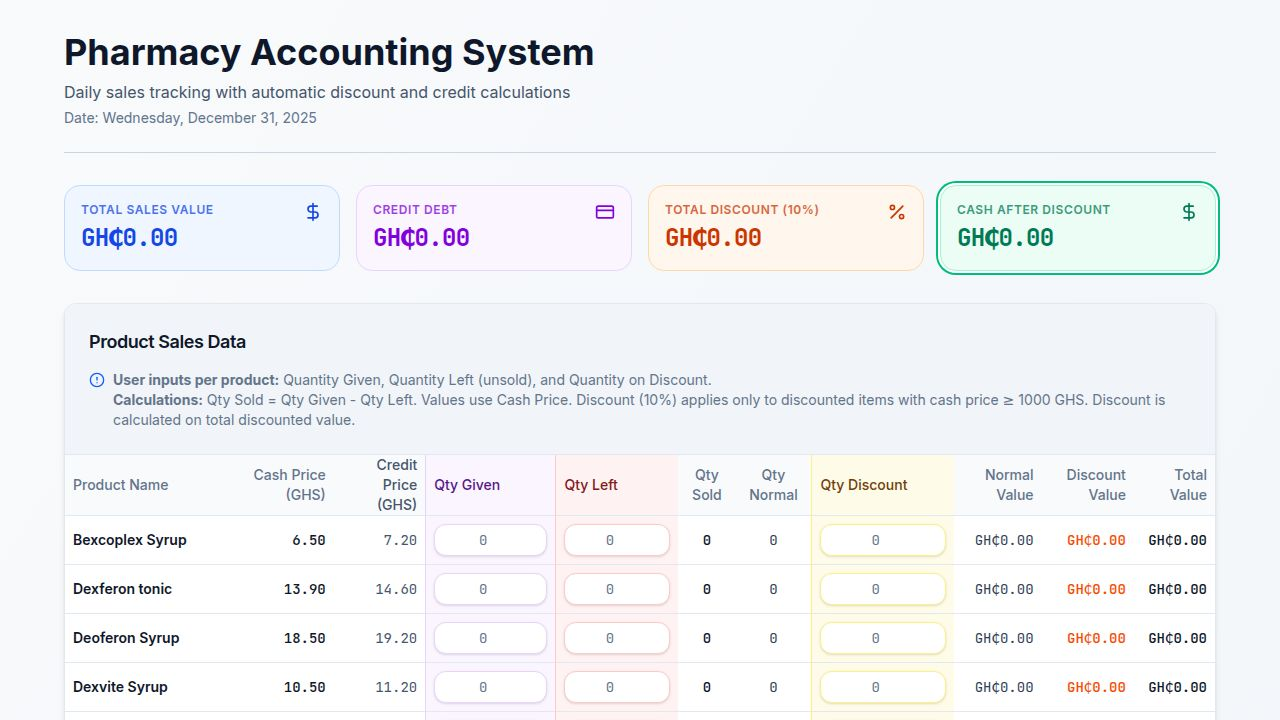
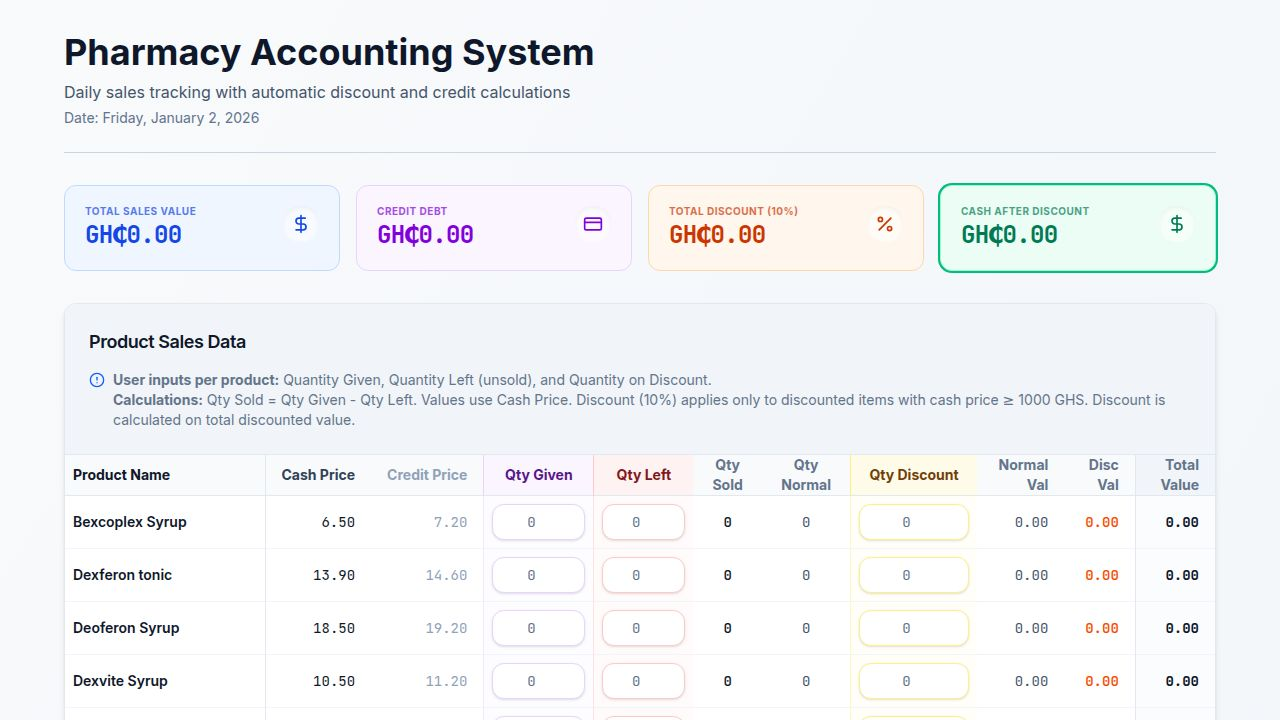
Improve application stability and responsiveness on mobile devices
Refine input sanitization, enhance table responsiveness with sticky headers and horizontal scrolling, and update table column styles for better UI clarity.

Replit-Commit-Author: Agent
Replit-Commit-Session-Id: 7ea7fb7e-5e10-45f6-930a-b31fd72799d8
Replit-Commit-Checkpoint-Type: full_checkpoint
Replit-Commit-Event-Id: 36b58686-c774-4e26-9c92-49d71a00b118
Replit-Commit-Screenshot-Url: https://storage.googleapis.com/screenshot-production-us-central1/97b15d18-5dab-4128-8b98-be8575c7d9ac/7ea7fb7e-5e10-45f6-930a-b31fd72799d8/UKVu9x1
Replit-Helium-Checkpoint-Created: true

diff --git a/client/src/pages/dashboard.tsx b/client/src/pages/dashboard.tsx
@@ -30,8 +30,12 @@ export default function Dashboard() {
   const [totalDifferences, setTotalDifferences] = useState<number | "">("");
 
   const handleInputChange = (id: string, field: keyof ProductInput, value: string) => {
-    const numValue = value === "" ? "" : parseFloat(value);
-    if (typeof numValue === "number" && numValue < 0) return;
+    // Basic sanitization: only allow digits and decimals
+    const sanitizedValue = value.replace(/[^0-9.]/g, "");
+    const numValue = sanitizedValue === "" ? "" : parseFloat(sanitizedValue);
+    
+    // Safety check for NaN or negative numbers
+    if (sanitizedValue !== "" && (isNaN(Number(numValue)) || Number(numValue) < 0)) return;
     
     setInputs((prev) => ({
       ...prev,
@@ -173,85 +177,90 @@ export default function Dashboard() {
             </CardDescription>
           </CardHeader>
           <CardContent className="p-0">
-            <div className="overflow-x-auto">
-              <Table>
+            <div className="overflow-x-auto scrollbar-thin scrollbar-thumb-slate-300">
+              <Table className="min-w-[1000px] lg:min-w-full">
                 <TableHeader>
-                  <TableRow className="bg-slate-50">
-                    <TableHead className="w-[180px]">Product Name</TableHead>
-                    <TableHead className="text-right">Cash Price (GHS)</TableHead>
-                    <TableHead className="text-right text-slate-600">Credit Price (GHS)</TableHead>
-                    <TableHead className="bg-purple-50 text-purple-900 border-l border-purple-200">Qty Given</TableHead>
-                    <TableHead className="bg-red-50 text-red-900 border-l border-red-200">Qty Left</TableHead>
-                    <TableHead className="text-center">Qty Sold</TableHead>
-                    <TableHead className="text-center">Qty Normal</TableHead>
-                    <TableHead className="bg-yellow-50 text-yellow-900 border-l border-yellow-200">Qty Discount</TableHead>
-                    <TableHead className="text-right">Normal Value</TableHead>
-                    <TableHead className="text-right">Discount Value</TableHead>
-                    <TableHead className="text-right">Total Value</TableHead>
+                  <TableRow className="bg-slate-50 border-b border-slate-200">
+                    <TableHead className="sticky left-0 z-10 bg-slate-50 w-[200px] min-w-[200px] font-bold text-slate-900 border-r">Product Name</TableHead>
+                    <TableHead className="text-right whitespace-nowrap px-4 font-bold text-slate-700">Cash Price</TableHead>
+                    <TableHead className="text-right whitespace-nowrap px-4 font-bold text-slate-400">Credit Price</TableHead>
+                    <TableHead className="bg-purple-50 text-purple-900 border-l border-purple-200 text-center font-bold px-4">Qty Given</TableHead>
+                    <TableHead className="bg-red-50 text-red-900 border-l border-red-200 text-center font-bold px-4">Qty Left</TableHead>
+                    <TableHead className="text-center font-bold px-4">Qty Sold</TableHead>
+                    <TableHead className="text-center font-bold px-4">Qty Normal</TableHead>
+                    <TableHead className="bg-yellow-50 text-yellow-900 border-l border-yellow-200 text-center font-bold px-4">Qty Discount</TableHead>
+                    <TableHead className="text-right font-bold px-4">Normal Val</TableHead>
+                    <TableHead className="text-right font-bold px-4">Disc Val</TableHead>
+                    <TableHead className="text-right font-bold px-4 bg-slate-100 border-l">Total Value</TableHead>
                   </TableRow>
                 </TableHeader>
                 <TableBody>
                   {calculations.productsCalculated.map((product) => (
-                    <TableRow key={product.id} className="border-b hover:bg-slate-50">
-                      <TableCell className="font-semibold text-slate-900">
-                        {product.name}
-                        {product.isEligibleForDiscount && (
-                          <Badge className="ml-2 bg-green-100 text-green-800 hover:bg-green-100">Eligible</Badge>
-                        )}
+                    <TableRow key={product.id} className="border-b border-slate-100 hover:bg-blue-50/30 transition-colors">
+                      <TableCell className="sticky left-0 z-10 bg-white group-hover:bg-blue-50/30 font-semibold text-slate-900 border-r py-3">
+                        <div className="flex flex-col">
+                          <span className="truncate max-w-[180px]">{product.name}</span>
+                          {product.isEligibleForDiscount && (
+                            <Badge variant="outline" className="mt-1 w-fit text-[10px] py-0 bg-green-50 text-green-700 border-green-200">Eligible</Badge>
+                          )}
+                        </div>
                       </TableCell>
-                      <TableCell className="text-right font-mono-numbers font-medium">
+                      <TableCell className="text-right font-mono text-sm px-4">
                         {product.cashPrice.toFixed(2)}
                       </TableCell>
-                      <TableCell className="text-right font-mono-numbers text-slate-600 text-sm">
+                      <TableCell className="text-right font-mono text-sm text-slate-400 px-4">
                         {product.creditPrice.toFixed(2)}
                       </TableCell>
-                      <TableCell className="bg-purple-50 border-l border-purple-200 p-2">
+                      <TableCell className="bg-purple-50/30 border-l border-purple-100 p-2">
                         <Input
                           type="number"
+                          inputMode="numeric"
                           min="0"
                           placeholder="0"
-                          className="h-8 text-center font-mono-numbers text-sm bg-white border-purple-200"
+                          className="h-9 text-center font-mono text-sm bg-white border-purple-200 focus:ring-purple-500"
                           value={inputs[product.id]?.quantityGiven}
                           onChange={(e) => handleInputChange(product.id, "quantityGiven", e.target.value)}
                           data-testid={`input-qty-given-${product.id}`}
                         />
                       </TableCell>
-                      <TableCell className="bg-red-50 border-l border-red-200 p-2">
+                      <TableCell className="bg-red-50/30 border-l border-red-100 p-2">
                         <Input
                           type="number"
+                          inputMode="numeric"
                           min="0"
                           placeholder="0"
-                          className="h-8 text-center font-mono-numbers text-sm bg-white border-red-200"
+                          className="h-9 text-center font-mono text-sm bg-white border-red-200 focus:ring-red-500"
                           value={inputs[product.id]?.quantityLeft}
                           onChange={(e) => handleInputChange(product.id, "quantityLeft", e.target.value)}
                           data-testid={`input-qty-left-${product.id}`}
                         />
                       </TableCell>
-                      <TableCell className="text-center font-mono-numbers font-medium">
+                      <TableCell className="text-center font-mono font-medium text-slate-900 px-4">
                         {product.qtySold}
                       </TableCell>
-                      <TableCell className="text-center font-mono-numbers text-slate-700">
+                      <TableCell className="text-center font-mono text-slate-600 px-4">
                         {product.qtyNormal}
                       </TableCell>
-                      <TableCell className="bg-yellow-50 border-l border-yellow-200 p-2">
+                      <TableCell className="bg-yellow-50/30 border-l border-yellow-100 p-2">
                         <Input
                           type="number"
+                          inputMode="numeric"
                           min="0"
                           placeholder="0"
-                          className="h-8 text-center font-mono-numbers text-sm bg-white border-yellow-200"
+                          className="h-9 text-center font-mono text-sm bg-white border-yellow-200 focus:ring-yellow-500"
                           value={inputs[product.id]?.quantitySoldDiscount}
                           onChange={(e) => handleInputChange(product.id, "quantitySoldDiscount", e.target.value)}
                           data-testid={`input-qty-discount-${product.id}`}
                         />
                       </TableCell>
-                      <TableCell className="text-right font-mono-numbers text-slate-700">
-                        {formatCurrency(product.normalValue)}
+                      <TableCell className="text-right font-mono text-sm text-slate-600 px-4">
+                        {product.normalValue.toFixed(2)}
                       </TableCell>
-                      <TableCell className="text-right font-mono-numbers text-orange-600 font-medium">
-                        {formatCurrency(product.discountedValue)}
+                      <TableCell className="text-right font-mono text-sm text-orange-600 font-medium px-4">
+                        {product.discountedValue.toFixed(2)}
                       </TableCell>
-                      <TableCell className="text-right font-mono-numbers font-medium text-slate-900">
-                        {formatCurrency(product.totalProductValue)}
+                      <TableCell className="text-right font-mono font-bold text-slate-900 bg-slate-50/50 border-l px-4 py-3">
+                        {product.totalProductValue.toFixed(2)}
                       </TableCell>
                     </TableRow>
                   ))}
@@ -381,21 +390,25 @@ function MetricCard({ label, value, icon, color, highlight = false }: any) {
     blue: "bg-blue-50 text-blue-700 border-blue-200",
     purple: "bg-purple-50 text-purple-700 border-purple-200",
     orange: "bg-orange-50 text-orange-700 border-orange-200",
-    emerald: "bg-emerald-50 text-emerald-700 border-emerald-200",
+    emerald: "bg-emerald-50 text-emerald-700 border-emerald-200 shadow-sm",
   };
 
   return (
     <motion.div 
       initial={{ opacity: 0, y: 10 }}
       animate={{ opacity: 1, y: 0 }}
-      className={`border rounded-lg p-4 ${colorClasses[color as keyof typeof colorClasses]} ${highlight ? 'ring-2 ring-offset-2 ring-emerald-500' : ''}`}
+      whileHover={{ scale: 1.02 }}
+      transition={{ duration: 0.2 }}
+      className={`border rounded-xl p-5 ${colorClasses[color as keyof typeof colorClasses]} ${highlight ? 'ring-2 ring-emerald-500 shadow-lg' : ''}`}
     >
       <div className="flex items-start justify-between">
-        <div>
-          <p className="text-xs font-semibold uppercase tracking-wider opacity-75">{label}</p>
-          <p className="text-2xl font-bold font-mono-numbers mt-1 tracking-tight">{value}</p>
+        <div className="space-y-1">
+          <p className="text-[10px] font-bold uppercase tracking-wider opacity-70 leading-none">{label}</p>
+          <p className="text-2xl font-black font-mono mt-1 tracking-tight truncate leading-tight">{value}</p>
         </div>
-        {icon}
+        <div className="p-2 bg-white/50 rounded-lg shadow-inner">
+          {icon}
+        </div>
       </div>
     </motion.div>
   );
